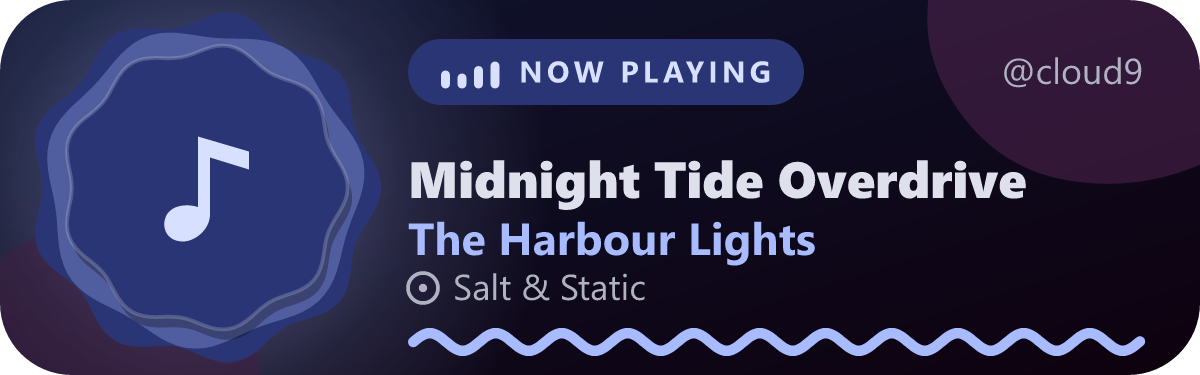
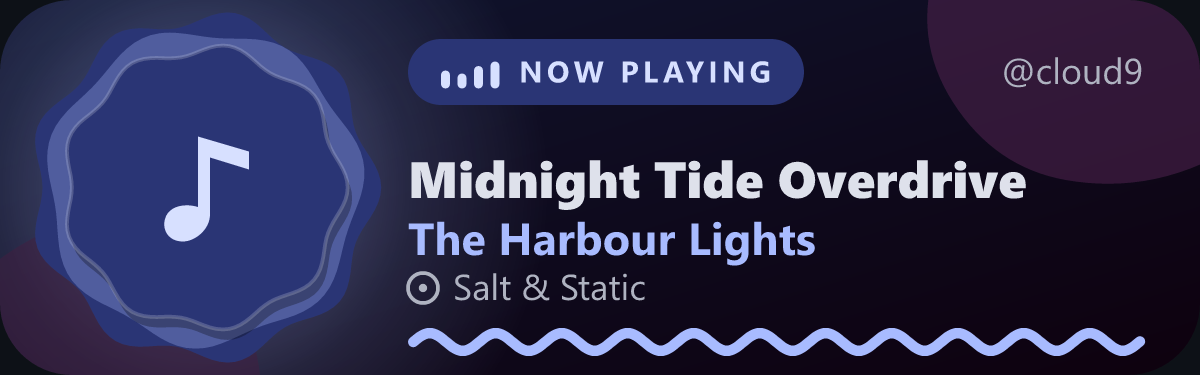
Paint the card's corners in GitHub's page colour and give every theme whole-pixel edges
Signed-in GitHub draws a lighter box (#151b23) behind README images, which
showed as pale wedges in the card's transparent rounded corners. The area
outside the rounded card is now painted in GitHub's page colour (#0d1117
dark, #ffffff light, following the card's mode), reaching 1 px under the card
so no seam shows. ?corners=clear keeps them transparent; the website preview
uses it because it sits on its own background.

The minimal card displayed at 480x86.4, rounded to 86, so it was scaled to fit
and left a 1 px strip of background at each side. It is now 145 units tall and
shows at exactly 480x87.

diff --git a/src/render/common.ts b/src/render/common.ts
@@ -167,3 +167,26 @@ export function progressIndicator(d: CardData, opts: CardOptions, s: IndicatorSp
   const t0 = trackFrom(head);
   return { svg: line(`pt ${stroke("primaryContainer")}`, ` stroke-dasharray="${n1(t0)} 9999"`) + dot + active, css };
 }
+
+/** GitHub's page colours (default light and dark themes). */
+const GITHUB_CANVAS = { light: "#ffffff", dark: "#0d1117" } as const;
+
+/**
+ * Paints the area outside the card's rounded corners in GitHub's page colour. Left transparent, those corners show
+ * whatever GitHub draws behind an image, and signed-in GitHub draws a lighter box (#151b23), which appeared as pale
+ * wedges at each corner. The fill reaches 1px under the card so no hairline seam can show between them.
+ * Follows the card's colour mode; ?corners=clear leaves them transparent for pages with their own background.
+ */
+export function cornerFill(w: number, h: number, rx: number, opts: CardOptions): { svg: string; css: string } {
+  if (opts.clearCorners) return { svg: "", css: "" };
+  const i = 1;
+  const r = rx - i;
+  const inner = `M${i + r} ${i}H${w - i - r}A${r} ${r} 0 0 1 ${w - i} ${i + r}V${h - i - r}A${r} ${r} 0 0 1 ${w - i - r} ${h - i}H${i + r}A${r} ${r} 0 0 1 ${i} ${h - i - r}V${i + r}A${r} ${r} 0 0 1 ${i + r} ${i}Z`;
+  const svg = `<path class="gh-canvas" fill-rule="evenodd" d="M0 0H${w}V${h}H0Z${inner}"/>`;
+  const rule = (c: string) => `.gh-canvas{fill:${c}}`;
+  const css =
+    opts.mode === "light" ? rule(GITHUB_CANVAS.light)
+    : opts.mode === "dark" ? rule(GITHUB_CANVAS.dark)
+    : `${rule(GITHUB_CANVAS.light)}@media (prefers-color-scheme:dark){${rule(GITHUB_CANVAS.dark)}}`;
+  return { svg, css };
+}

diff --git a/src/landing.ts b/src/landing.ts
@@ -46,7 +46,7 @@ small{color:var(--muted);display:block;margin-top:28px}
 <small>This preview updates by itself while the tab is open. On GitHub the card is fresh on every page load; the width and height in the snippet keep its space reserved while it loads, so the section never collapses. Covers are official artwork only (Last.fm, Genius, iTunes); a track with none gets a generated placeholder instead of a wrong cover. ${APP_NAME} is an independent project and is not affiliated with Last.fm or any music player.</small>
 <script>
 const $=id=>document.getElementById(id);
-const HEIGHT={expressive:150,minimal:86,terminal:150};
+const HEIGHT={expressive:150,minimal:87,terminal:150};
 const POLL_MS=4000;
 const q=new URLSearchParams(location.search);
 $('user').value=q.get('user')??${JSON.stringify(owner ?? "")};
@@ -57,7 +57,8 @@ if(u)p.set('user',u);else p.set('demo','playing');
 if($('theme').value!=='expressive')p.set('theme',$('theme').value);
 if($('mode').value!=='auto')p.set('mode',$('mode').value);
 if($('still').value)p.set('still','1');return p}
-const cardUrl=abs=>(abs?location.origin:'')+'/api/now?'+params();
+// The preview sits on this page's own background, so its corners stay clear; the snippet keeps GitHub's.
+const cardUrl=abs=>{const p=params();if(!abs)p.set('corners','clear');return (abs?location.origin:'')+'/api/now?'+p};
 function chip(state,text){$('live').className='chip'+(state==='live'?' live':'');$('live-text').textContent=text}
 // Live preview: a HEAD request returns only the card's key; the image is fetched and swapped only when it changes.
 let key=null,timer=0,fails=0,gen=0;

diff --git a/test/render.test.ts b/test/render.test.ts
@@ -156,3 +156,26 @@ describe("the name tag", () => {
     expect(renderCard(data, seed, { theme: "expressive", mode: "dark", still: true })).toContain("@cloud9");
   });
 });
+
+describe("edges and corners", () => {
+  const now2 = 1_800_000_000;
+  it("every theme displays at whole pixels with the same shape as its drawing, so no strip of background shows at the sides", () => {
+    for (const theme of THEMES) {
+      const { data, seed } = demoCard("playing", now2);
+      const svg = renderCard(data, seed, { theme, mode: "dark", still: true });
+      const [, w, h, vw, vh] = svg.match(/width="([\d.]+)" height="([\d.]+)" viewBox="0 0 (\d+) (\d+)"/)!.map(Number);
+      expect(Number.isInteger(h)).toBe(true);
+      expect(w! / h!).toBeCloseTo(vw! / vh!, 6);
+    }
+  });
+
+  it("paints the corners outside the rounded card in GitHub's page colour unless asked to keep them clear", () => {
+    const { data, seed } = demoCard("playing", now2);
+    for (const theme of THEMES) {
+      const painted = renderCard(data, seed, { theme, mode: "auto", still: true });
+      expect(painted).toContain('class="gh-canvas"');
+      expect(painted).toContain(".gh-canvas{fill:#ffffff}@media (prefers-color-scheme:dark){.gh-canvas{fill:#0d1117}}");
+      expect(renderCard(data, seed, { theme, mode: "dark", still: true, clearCorners: true })).not.toContain("gh-canvas");
+    }
+  });
+});

diff --git a/src/render/minimal.ts b/src/render/minimal.ts
@@ -2,10 +2,10 @@ import type { CardData, CardOptions } from "../model.ts";
 import type { Palette } from "../palette.ts";
 import { eqHeights, notePath, scallopPath } from "../shapes.ts";
 import { esc, fit } from "../util.ts";
-import { SANS, colorCss, copyFor, fill, motionCss, progressIndicator, stop, wrap } from "./common.ts";
+import { SANS, colorCss, copyFor, cornerFill, fill, motionCss, progressIndicator, stop, wrap } from "./common.ts";
 
 const W = 800;
-const H = 144;
+const H = 145; // 480 px wide shows it at exactly 87 px tall: a fractional height left a 1 px gap at each side
 const WAVELENGTH = 32;
 
 /** Compact single-row card for people who want something small. */
@@ -43,5 +43,6 @@ export function renderMinimal(d: CardData, palette: Palette, opts: CardOptions):
     (live ? `<g class="eq ${fill("primary")}" transform="translate(${W - 100} ${H / 2 - 12})">${eq}</g>` : "") +
     `</g>`;
 
-  return wrap(W, H, esc(`${copy.pill}: ${copy.title} - ${copy.sub}`), colorCss(palette, opts) + motionCss(opts) + progress.css, body);
+  const corners = cornerFill(W, H, 36, opts);
+  return wrap(W, H, esc(`${copy.pill}: ${copy.title} - ${copy.sub}`), colorCss(palette, opts) + motionCss(opts) + progress.css + corners.css, corners.svg + body);
 }

diff --git a/src/render/expressive.ts b/src/render/expressive.ts
@@ -2,7 +2,7 @@ import type { CardData, CardOptions } from "../model.ts";
 import type { Palette } from "../palette.ts";
 import { blobPath, eqHeights, notePath, scallopPath } from "../shapes.ts";
 import { esc, fit, textEm, wrapLines } from "../util.ts";
-import { SANS, colorCss, copyFor, fill, motionCss, progressIndicator, stop, stroke, wrap } from "./common.ts";
+import { SANS, colorCss, copyFor, cornerFill, fill, motionCss, progressIndicator, stop, stroke, wrap } from "./common.ts";
 
 const W = 800;
 const H = 250;
@@ -102,6 +102,7 @@ export function renderExpressive(d: CardData, palette: Palette, opts: CardOption
     progress.svg +
     `</g>`;
 
-  const css = colorCss(palette, opts) + motionCss(opts) + progress.css;
-  return wrap(W, H, esc(`${copy.pill}: ${copy.title} - ${copy.sub}`), css, body);
+  const corners = cornerFill(W, H, 48, opts);
+  const css = colorCss(palette, opts) + motionCss(opts) + progress.css + corners.css;
+  return wrap(W, H, esc(`${copy.pill}: ${copy.title} - ${copy.sub}`), css, corners.svg + body);
 }

diff --git a/src/params.ts b/src/params.ts
@@ -30,6 +30,7 @@ export function parseParams(url: URL): Params {
       theme: pick<Theme>(THEMES, q.get("theme"), "expressive"),
       mode: pick<Mode>(MODES, q.get("mode"), "auto"),
       still,
+      clearCorners: (q.get("corners") ?? "").toLowerCase() === "clear",
     },
   };
 }
@@ -37,5 +38,5 @@ export function parseParams(url: URL): Params {
 /** Normalised cache key: only recognised params, in a fixed order, so `?x=1` cannot bust the cache. */
 export function cacheKey(origin: string, p: Params): string {
   const id = p.demo ? `demo-${p.demo}` : `u-${(p.user ?? "").toLowerCase()}`;
-  return `${origin}/__cache/${id}/${p.opts.theme}/${p.opts.mode}/${p.opts.still ? "still" : "live"}/${p.artistCover ? "ac" : "noac"}`;
+  return `${origin}/__cache/${id}/${p.opts.theme}/${p.opts.mode}/${p.opts.still ? "still" : "live"}/${p.artistCover ? "ac" : "noac"}/${p.opts.clearCorners ? "clear" : "gh"}`;
 }

diff --git a/src/render/terminal.ts b/src/render/terminal.ts
@@ -2,7 +2,7 @@ import type { CardData, CardOptions } from "../model.ts";
 import type { Palette } from "../palette.ts";
 import { eqHeights, notePath } from "../shapes.ts";
 import { esc, fit } from "../util.ts";
-import { MONO, colorCss, copyFor, fill, motionCss, stop, stroke, wrap } from "./common.ts";
+import { MONO, colorCss, copyFor, cornerFill, fill, motionCss, stop, stroke, wrap } from "./common.ts";
 
 const W = 800;
 const H = 250;
@@ -62,5 +62,6 @@ export function renderTerminal(d: CardData, palette: Palette, opts: CardOptions)
     (track ? tile : "") +
     `</g>`;
 
-  return wrap(W, H, esc(`${copy.pill}: ${copy.title} - ${copy.sub}`), colorCss(palette, opts) + motionCss(opts), body);
+  const corners = cornerFill(W, H, 28, opts);
+  return wrap(W, H, esc(`${copy.pill}: ${copy.title} - ${copy.sub}`), colorCss(palette, opts) + motionCss(opts) + corners.css, corners.svg + body);
 }

diff --git a/src/model.ts b/src/model.ts
@@ -34,6 +34,11 @@ export interface CardOptions {
   mode: Mode;
   /** Disable all CSS animation (also honoured via prefers-reduced-motion). */
   still: boolean;
+  /**
+   * Leave the corners outside the rounded card transparent instead of painting them in GitHub's page colour.
+   * For pages with their own background (the website preview); see cornerFill.
+   */
+  clearCorners?: boolean;
 }
 
 /** Everything a renderer needs; art is already embedded and palette resolved. */

diff --git a/test/progress.test.ts b/test/progress.test.ts
@@ -162,7 +162,7 @@ describe("the website", () => {
   it("hands out a snippet with a width and height, so GitHub reserves the space while the card loads", () => {
     const html = landingPage();
     expect(html).toContain('width="480" height="');
-    expect(html).toContain("minimal:86");
+    expect(html).toContain("minimal:87");
   });
 
   it("still works without an owner", () => {

diff --git a/README.md b/README.md
@@ -27,7 +27,7 @@ Deploy your own copy (below). Each person runs their own, so there is no shared 
 <a href="https://www.last.fm/user/YOUR_LASTFM_NAME"><img src="https://YOUR-WORKER.workers.dev/api/now?user=YOUR_LASTFM_NAME" alt="Now playing on Last.fm" width="480" height="150"></a>
 ```
 
-Keep the `width` and `height` (use `height="86"` for the minimal theme): GitHub fetches a fresh card on every page load, and without a size the section collapses for the moment it takes to arrive. The outer link makes the card open your Last.fm profile; GitHub does not follow links inside an SVG, so the link has to wrap the image.
+Keep the `width` and `height` (use `height="87"` for the minimal theme): GitHub fetches a fresh card on every page load, and without a size the section collapses for the moment it takes to arrive. The outer link makes the card open your Last.fm profile; GitHub does not follow links inside an SVG, so the link has to wrap the image.
 
 Open your Worker's home page for a live preview (it updates by itself while open) and a snippet generator.
 
